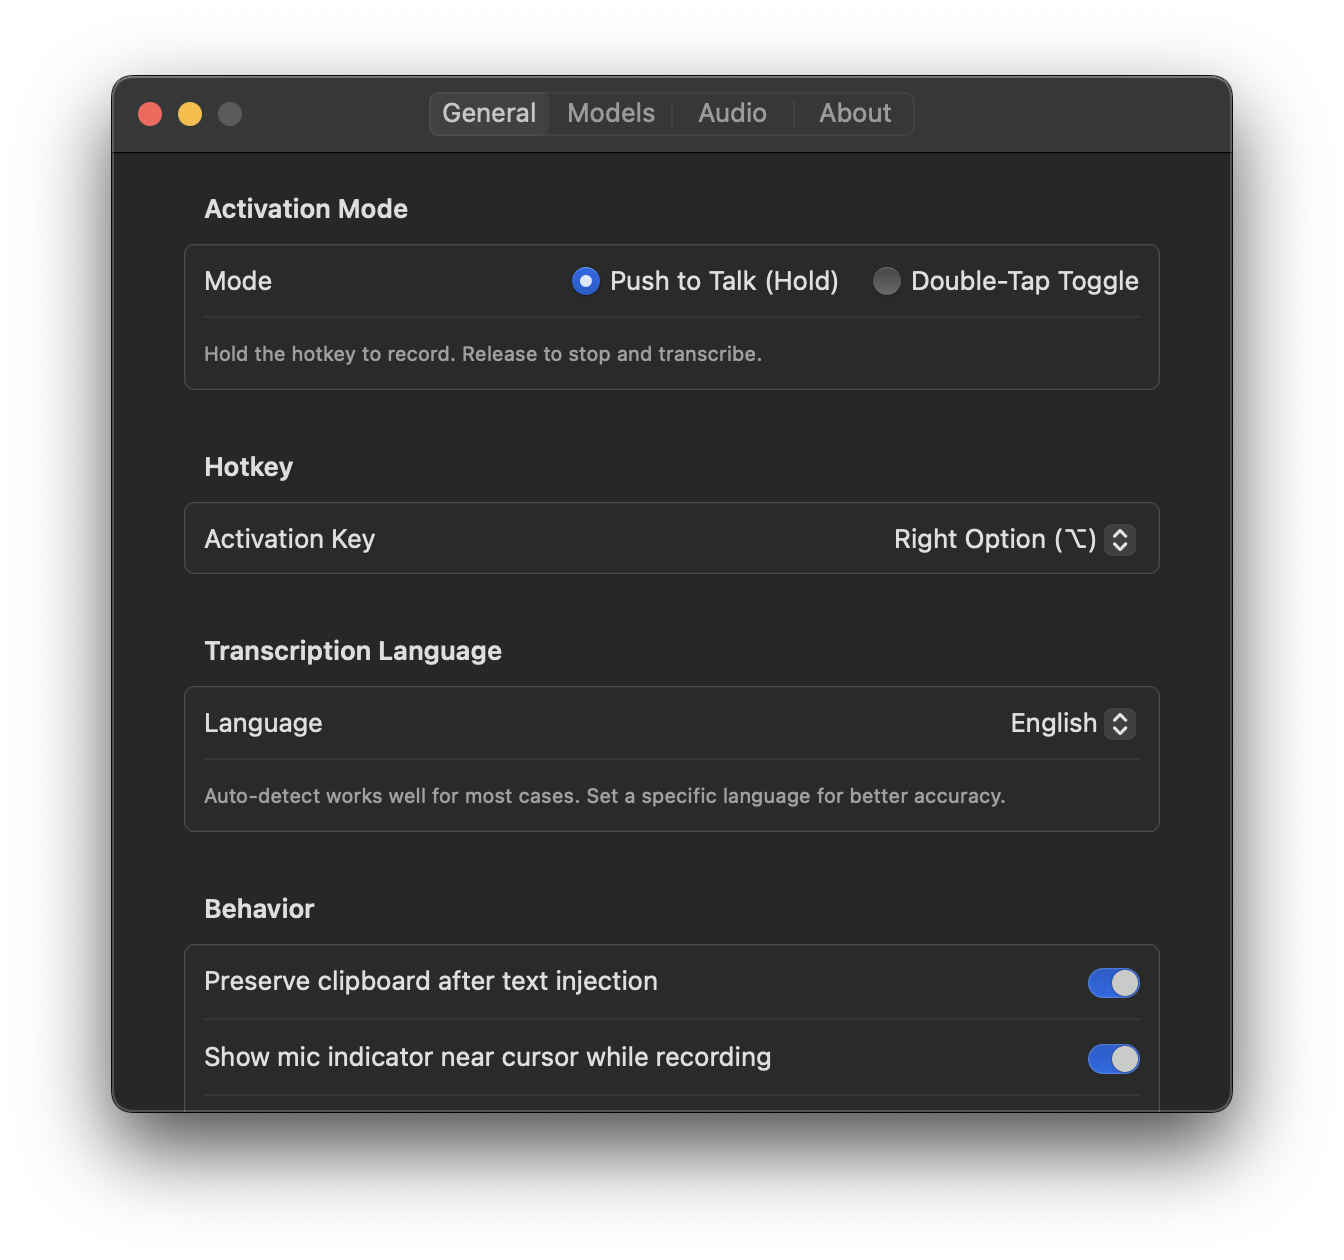
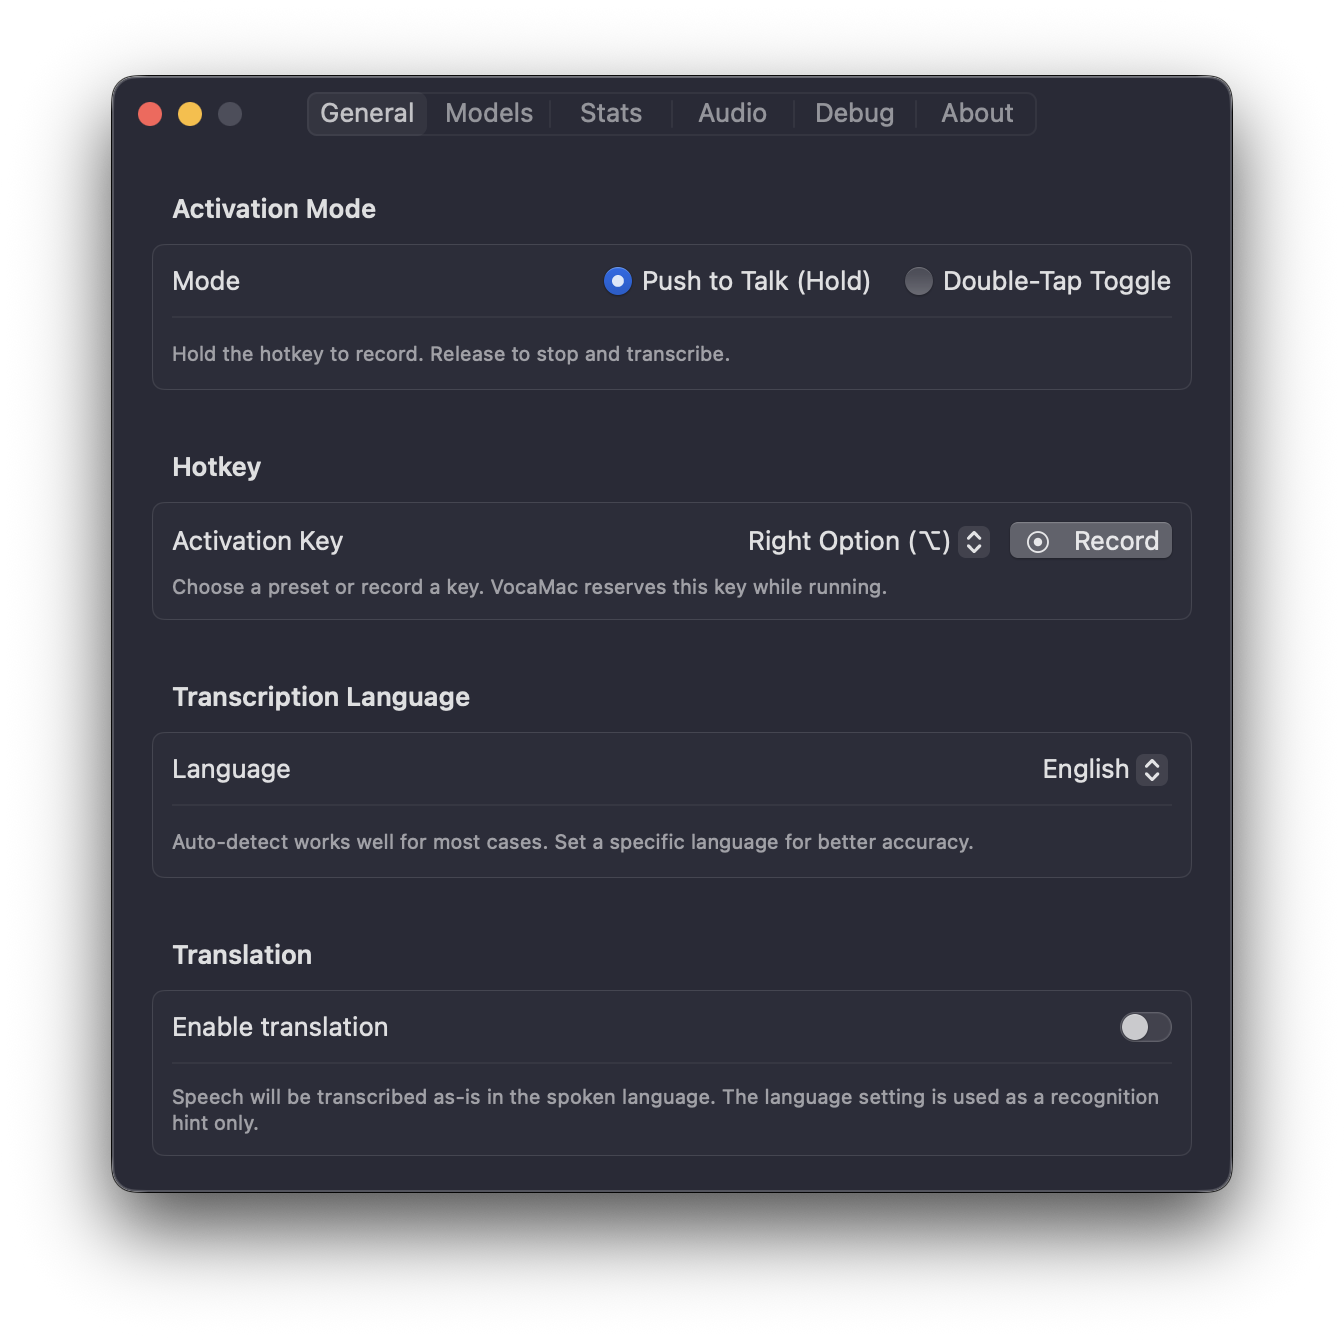
docs(web): document v0.7.0 features on the website (#172)
* docs(web): document v0.7.0 features on the website

Adds website coverage for features shipped since v0.6.2 (audit found 4 of
5 uncovered; Homebrew was already fully covered, left untouched):

- New feature pages: Custom Vocabulary (#169) and Usage Statistics
  (#148/#168/#170), each with a landing-page grid card.
- Landing JSON-LD featureList: add custom vocabulary, local usage stats,
  and selectable audio input device (#156).
- Hotkey presets + custom recording (#139): fix stale "key combination"
  copy in fully-configurable.md, document the Record/custom-key capture
  and add the Right Control preset in push-to-talk.md, and update the FAQ.
- Audio input device (#156): expand fully-configurable.md (System Default,
  non-invasive pinning, auto-fallback on disconnect, Refresh Devices).
- Screenshots gallery: add a Stats tab entry.

Two screenshots still needed from a real capture (marked with SCREENSHOT
PLACEHOLDER comments): settings-stats.png and settings-vocabulary.png.
Verified with `hugo` (build succeeds; new pages render; JSON-LD valid).

* polish(web): refine features grid, fix mobile hero overflow, SEO pass

Features grid:
- Switch from a fixed 4-col grid (which left 2 orphan cards hanging and,
  via grid-auto-rows:1fr, forced every row to the tallest card's height)
  to a centered flex-wrap layout: uniform card heights, the short last
  row centers, and 4/2/1 columns at desktop/tablet/mobile.
[…]

Pull request: docs(web): document v0.7.0 features on the website
## Summary

Brings the website up to date with the features shipping in **v0.7.0**. A multi-agent audit checked all five features shipped since v0.6.2; each finding was independently verified. Result: 4 of 5 needed website work — **Homebrew (#157/#159) was already fully covered**, so it's untouched.

Kept separate from the version-bump PR (#171) so the release PR stays clean. Branches from `main` (no version-string changes here).

## What changed

| Feature | Was | Change |
|---|---|---|
| Custom vocabulary (#169) | missing | **New page** `features/custom-vocabulary.md` + landing grid card + JSON-LD |
| Usage statistics (#148/#168/#170) | missing | **New page** `features/usage-stats.md` + landing grid card + JSON-LD + gallery entry |
| Hotkey presets + custom recording (#139) | partial / stale | Rewrote stale "key combination" copy in `fully-configurable.md`; documented the **Record**/custom-key flow + added **Right Control** preset in `push-to-talk.md`; updated the FAQ |
| Audio input device (#156) | thin | Expanded `fully-configurable.md` (System Default, non-invasive pinning, auto-fallback on disconnect, Refresh Devices) + JSON-LD line |
| Homebrew (#157/#159) | ✅ covered | No change (verified) |

## 📸 Screenshots I need from you

Two images are referenced but not yet committed. Both are marked in the source with `<!-- SCREENSHOT PLACEHOLDER ... -->` comments. Drop the PNGs into **`web/static/screenshots/`** with these exact names:

| Filename | Capture | Used by |
[…]

diff --git a/web/static/style.css b/web/static/style.css
@@ -444,14 +444,16 @@ section { padding: 100px 0; }
 
 /* ========== Features ========== */
 .features__grid {
-    display: grid;
-    grid-template-columns: repeat(4, 1fr);
-    grid-auto-rows: 1fr;
+    display: flex;
+    flex-wrap: wrap;
+    justify-content: center;
     gap: 20px;
 }
 .feature-card {
-    padding: 28px;
-    border-radius: var(--radius-lg);
+    flex: 0 1 calc(25% - 15px);
+    min-height: 224px;
+    padding: 28px 24px;
+    border-radius: var(--radius-xl);
     border: 1px solid var(--border-color);
     background: var(--card-bg);
     transition: all 0.3s ease;
@@ -476,8 +478,8 @@ a.feature-card {
 }
 a.feature-card:hover {
     transform: translateY(-4px);
-    box-shadow: var(--shadow-sm);
-    border-color: var(--accent);
+    box-shadow: var(--shadow-md);
+    border-color: var(--border-hover);
 }
 a.feature-card::after {
     content: "Learn more →";
@@ -493,8 +495,27 @@ a.feature-card::after {
 a.feature-card:hover::after {
     opacity: 1;
 }
-.feature-card__icon { font-size: 28px; }
-.feature-card p { color: var(--text-secondary); font-size: 14px; line-height: 1.6; }
+.feature-card__icon {
+    font-size: 26px;
+    line-height: 1;
+    width: 54px;
+    height: 54px;
+    display: flex;
+    align-items: center;
+    justify-content: center;
+    border-radius: 15px;
+    background: var(--bg-primary);
+    border: 1px solid var(--border-color);
+    box-shadow: 0 1px 2px rgba(0, 0, 0, 0.04);
+}
+.feature-card h3 {
+    font-size: 17px;
+    font-weight: 600;
+    letter-spacing: -0.01em;
+    line-height: 1.3;
+    margin: 0;
+}
+.feature-card p { color: var(--text-secondary); font-size: 14px; line-height: 1.5; margin: 0; }
 
 /* ========== Privacy ========== */
 .privacy { background: var(--bg-secondary); }
@@ -855,7 +876,7 @@ a.feature-card:hover::after {
 /* ========== Mobile Responsive ========== */
 @media (max-width: 1024px) {
     .container { padding: 0 32px; }
-    .features__grid { grid-template-columns: repeat(2, 1fr); }
+    .feature-card { flex-basis: calc(50% - 10px); min-height: 0; }
     .models__grid { grid-template-columns: repeat(3, 1fr); }
     .hero__container { grid-template-columns: 1fr; text-align: center; gap: 32px; }
     .hero__content { align-items: center; min-width: 0; width: 100%; }
@@ -876,7 +897,7 @@ a.feature-card:hover::after {
     .navbar__cta-icon { display: block; width: 18px; height: 18px; }
     .navbar__toggle { display: flex; }
     .steps { grid-template-columns: 1fr; gap: 32px; }
-    .features__grid { grid-template-columns: 1fr; }
+    .feature-card { flex-basis: 100%; min-height: 0; }
     .models__grid { grid-template-columns: repeat(2, 1fr); }
     .family__grid { grid-template-columns: 1fr; }
     .hero__actions { flex-direction: column; align-items: center; }
@@ -885,7 +906,7 @@ a.feature-card:hover::after {
     .hero__cta-centered .button { width: 100%; justify-content: center; padding: 14px 24px; font-size: 15px; }
     .hero { padding: 100px 0 40px; }
     .hero__container { gap: 0; }
-    .hero__visual { display: flex; margin-top: 16px; transform: scale(0.7); transform-origin: top center; margin-bottom: -80px; }
+    .hero__visual { display: flex; justify-content: center; min-width: 0; overflow: hidden; margin-top: 16px; transform: scale(0.7); transform-origin: top center; margin-bottom: -80px; }
     .comparison-table { font-size: 12px; }
     .comparison-row { grid-template-columns: 1.5fr 1fr 1fr 1fr; }
     .comparison-row div { padding: 8px 10px; }

diff --git a/web/layouts/index.html b/web/layouts/index.html
@@ -32,6 +32,9 @@
             "Launch at Login",
             "Clipboard preservation",
             "Cursor indicator overlay",
+            "Custom vocabulary for names and jargon",
+            "Local usage statistics (streaks, WPM, lifetime totals)",
+            "Selectable audio input device",
             "Guided setup wizard",
             "Open source (AGPL-3.0 license)"
         ],
@@ -180,62 +183,72 @@
                 <a href="/features/system-wide-text-injection/" class="feature-card">
                     <div class="feature-card__icon">⌨️</div>
                     <h3>System-Wide Text Injection</h3>
-                    <p>Transcribed text appears wherever your cursor is. Browsers, Slack, VS Code, spreadsheets, terminals. Everywhere.</p>
+                    <p>Transcribed text appears at your cursor, in any app.</p>
                 </a>
                 <a href="/features/push-to-talk/" class="feature-card">
                     <div class="feature-card__icon">🎯</div>
                     <h3>Push-to-Talk</h3>
-                    <p>Hold a hotkey to record. Release to transcribe. Simple, predictable, no surprises.</p>
+                    <p>Hold a hotkey to record, release to transcribe.</p>
                 </a>
                 <a href="/features/double-tap-toggle/" class="feature-card">
                     <div class="feature-card__icon">👆</div>
                     <h3>Double-Tap Toggle</h3>
-                    <p>Prefer toggle mode? Double-tap to start, double-tap to stop. Your choice.</p>
+                    <p>Double-tap to start, double-tap to stop.</p>
                 </a>
                 <a href="/features/smart-model-selection/" class="feature-card">
                     <div class="feature-card__icon">🧠</div>
                     <h3>Smart Model Selection</h3>
-                    <p>Auto-detects your Apple Silicon chip and RAM, then recommends the optimal Whisper model.</p>
+                    <p>Auto-picks the best Whisper model for your Mac.</p>
                 </a>
                 <a href="/features/apple-silicon-native/" class="feature-card">
                     <div class="feature-card__icon">⚡</div>
                     <h3>Apple Silicon Native</h3>
-                    <p>CoreML + Metal + Neural Engine acceleration via WhisperKit. Blazing fast on M1/M2/M3/M4.</p>
+                    <p>CoreML + Neural Engine speed via WhisperKit.</p>
                 </a>
                 <a href="/features/fully-configurable/" class="feature-card">
                     <div class="feature-card__icon">⚙️</div>
                     <h3>Fully Configurable</h3>
-                    <p>Choose hotkeys, models, languages, silence detection. Settings window with model management.</p>
+                    <p>Tune hotkeys, models, languages, and silence detection.</p>
                 </a>
                 <a href="/features/languages/" class="feature-card">
                     <div class="feature-card__icon">🌍</div>
                     <h3>99+ Languages</h3>
-                    <p>Auto-detect or specify. English, Spanish, French, German, Chinese, Japanese, and many more.</p>
+                    <p>Auto-detect or pick your language — 99+ supported.</p>
                 </a>
                 <a href="/features/visual-feedback/" class="feature-card">
                     <div class="feature-card__icon">📊</div>
                     <h3>Visual Feedback</h3>
-                    <p>Menu bar icon changes color. Audio level indicator shows input. Cursor indicator near your caret while recording.</p>
+                    <p>Color cues and a live audio meter while recording.</p>
                 </a>
                 <a href="/features/translation/" class="feature-card">
                     <div class="feature-card__icon">🌐</div>
                     <h3>Translation</h3>
-                    <p>Speak in one language, get text in another. Built-in speech translation powered by Whisper.</p>
+                    <p>Speak one language, get text in another.</p>
+                </a>
+                <a href="/features/custom-vocabulary/" class="feature-card">
+                    <div class="feature-card__icon">📝</div>
+                    <h3>Custom Vocabulary</h3>
+                    <p>Teach it your names, jargon, and acronyms.</p>
                 </a>
                 <a href="/features/silence-detection/" class="feature-card">
                     <div class="feature-card__icon">🤫</div>
                     <h3>Silence Detection</h3>
-                    <p>Auto-stops recording after you stop speaking. Adjustable sensitivity and duration thresholds.</p>
+                    <p>Auto-stops when you stop speaking. Fully adjustable.</p>
                 </a>
                 <a href="/features/launch-at-login/" class="feature-card">
                     <div class="feature-card__icon">🚀</div>
                     <h3>Launch at Login</h3>
-                    <p>Start VocaMac automatically when you log in. Always ready when you need it.</p>
+                    <p>Starts automatically at login. Always ready.</p>
                 </a>
                 <a href="/features/clipboard-preservation/" class="feature-card">
                     <div class="feature-card__icon">📋</div>
                     <h3>Clipboard Preservation</h3>
-                    <p>Your clipboard is saved and restored after text injection. Nothing gets overwritten.</p>
+                    <p>Saved and restored after every injection.</p>
+                </a>
+                <a href="/features/usage-stats/" class="feature-card">
+                    <div class="feature-card__icon">📈</div>
+                    <h3>Usage Statistics</h3>
+                    <p>Track words, speaking speed, and daily streaks.</p>
                 </a>
             </div>
         </div>
@@ -606,7 +619,7 @@
                 </details>
                 <details class="faq__item">
                     <summary>Can I change the hotkey?</summary>
-                    <p>Yes! Open Settings from the menu bar and choose from Right Option, Right Command, Fn, or any function key. You can also switch between push-to-talk and double-tap toggle modes.</p>
+                    <p>Yes! Open Settings from the menu bar and pick a preset (Right Option, Right Command, Right Control, Fn, or a function key), or click <strong>Record</strong> and press any key to set a custom one. You can also switch between push-to-talk and double-tap toggle modes.</p>
                 </details>
                 <details class="faq__item">
                     <summary>How does this compare to Apple's built-in dictation?</summary>

diff --git a/web/layouts/_default/screenshots.html b/web/layouts/_default/screenshots.html
@@ -51,6 +51,11 @@
                         <img src="/screenshots/settings-models.png" alt="VocaMac Settings - Models tab" loading="lazy">
                         <figcaption>Models - System info, resource usage, and model management</figcaption>
                     </figure>
+                    <!-- SCREENSHOT PLACEHOLDER: add web/static/screenshots/settings-stats.png (Stats tab, ~1344×1260) -->
+                    <figure class="screenshot-item">
+                        <img src="/screenshots/settings-stats.png" alt="VocaMac Settings - Stats tab" loading="lazy">
+                        <figcaption>Stats - Lifetime totals, speaking speed, and daily streaks</figcaption>
+                    </figure>
                     <figure class="screenshot-item">
                         <img src="/screenshots/settings-audio.png" alt="VocaMac Settings - Audio tab" loading="lazy">
                         <figcaption>Audio - Recording duration, silence detection, and input device</figcaption>

diff --git a/web/layouts/partials/head.html b/web/layouts/partials/head.html
@@ -38,7 +38,7 @@
     <meta name="theme-color" content="#FFFFFF">
 
     <!-- Open Graph -->
-    <meta property="og:type" content="website">
+    <meta property="og:type" content="{{ if .IsHome }}website{{ else }}article{{ end }}">
     <meta property="og:url" content="{{ .Permalink }}">
     <meta property="og:title" content="{{ if .IsHome }}VocaMac - 100% Local Voice-to-Text for macOS{{ else }}{{ .Title }} | VocaMac{{ end }}">
     <meta property="og:description" content="{{ with .Params.description }}{{ . }}{{ else }}{{ .Site.Params.description }}{{ end }}">

diff --git a/web/content/features/custom-vocabulary.md b/web/content/features/custom-vocabulary.md
@@ -1,0 +1,32 @@
+---
+title: "Custom Vocabulary"
+subtitle: "Teach VocaMac the names, brands, and jargon you use so they're transcribed right, every time."
+description: "Add names, technical terms, and jargon to VocaMac's custom vocabulary so Whisper spells them correctly. Processed 100% locally, like everything else in VocaMac."
+keywords: "custom vocabulary dictation, whisper glossary, proper noun transcription, technical jargon speech to text, fix misspelled names dictation macOS"
+icon: "📝"
+---
+
+## Teach VocaMac Your Words
+
+Speech models handle everyday language well but stumble on the words that matter most to you: coworkers' names, product names, acronyms, and technical jargon. "kubectl" becomes "cube control." "Grafana" becomes "graph on a." Every transcription ends with a manual fix.
+
+Custom Vocabulary targets exactly the words you use. Give VocaMac a short list of the terms it keeps getting wrong, and it hints them to the model so they come out spelled correctly from the start.
+
+<!-- SCREENSHOT PLACEHOLDER: add web/static/screenshots/settings-vocabulary.png (General tab → Custom Vocabulary section, ~1344×1260) -->
+![VocaMac Settings showing the Custom Vocabulary editor](/screenshots/settings-vocabulary.png)
+
+## How It Works
+
+Open **Settings → General → Custom Vocabulary** and type the terms you care about, one per line or comma-separated:
+
+```
+kubectl, PostgreSQL, nginx, Grafana
+```
+
+VocaMac passes these to Whisper as a transcription hint, biasing it toward your spelling. Keep the list focused: the model uses roughly the first 50–100 words, so put your most-mistranscribed terms at the top. There's no training step and no delay. Add a term, and your very next dictation already knows it.
+
+For best results, enter terms in the language you dictate and set a matching transcription language above. In Auto-detect, your vocabulary can even nudge VocaMac toward the right language.
+
+## Private by Design
+
+Your word list never leaves your Mac. Like every other part of VocaMac, custom vocabulary is applied entirely on-device — nothing is uploaded to build or store a dictionary. Your names, projects, and jargon stay yours.

diff --git a/web/content/features/usage-stats.md b/web/content/features/usage-stats.md
@@ -1,0 +1,26 @@
+---
+title: "Usage Statistics"
+subtitle: "See how much you dictate, how fast you speak, and how consistent you've been. All stored locally."
+description: "VocaMac's Stats tab tracks words transcribed, speaking speed, daily streaks, and lifetime totals — stored locally on your Mac and never uploaded."
+keywords: "dictation statistics, words per minute tracker, voice typing stats, speaking speed macOS, local usage stats, dictation streak"
+icon: "📈"
+---
+
+## See How Much You Dictate
+
+Every transcription adds up. The **Stats** tab in Settings turns that into a picture of how you actually use your voice: total words transcribed, number of transcriptions, and total time spoken across the lifetime of the app.
+
+<!-- SCREENSHOT PLACEHOLDER: add web/static/screenshots/settings-stats.png (Stats tab, ~1344×1260, ideally with real usage so it isn't all zeros) -->
+![VocaMac Settings showing the Stats tab](/screenshots/settings-stats.png)
+
+## Speed, Streaks, and Recent Activity
+
+- **Speaking speed** — your average words per minute, so you can see how fast you dictate.
+- **Daily streak** — consecutive days you've used VocaMac, alongside your best streak so far.
+- **Recent activity** — a day-by-day breakdown of words dictated over the last week.
+
+It's a light, motivating way to keep a habit going, without turning dictation into a spreadsheet.
+
+## Private by Design
+
+Your stats are yours alone. They're saved locally on your Mac and never uploaded, synced, or shared — nothing about how much you dictate ever leaves your machine. Want a clean slate? A single button in the Stats tab resets everything.

diff --git a/web/content/features/fully-configurable.md b/web/content/features/fully-configurable.md
@@ -16,9 +16,9 @@ Every major aspect of VocaMac can be customized. Hotkeys, audio behavior, transc
 
 ## Hotkey Configuration
 
-Your hotkey is how you activate VocaMac. The app respects your preference for how you work and lets you choose exactly which key combination suits your workflow best.
+Your hotkey is how you activate VocaMac. The app respects how you work and lets you pick the single activation key that suits you best.
 
-Maybe you prefer Control-Space. Perhaps Command-Shift-L feels more natural. You might want something completely different. The settings window presents a simple, elegant hotkey selector. Click, press the keys you want to use, and you're done.
+Start from a preset — Right Option, Left Option, Right Command, Right Shift, Right Control, Fn, or a function key (F5–F12). Prefer something else? Click **Record**, press any key, and VocaMac captures it (press Escape to cancel). Your choice shows up as a "Custom" key, and while VocaMac is running that key is reserved for activation.
 
 The hotkey works from anywhere on your Mac. Launch VocaMac from Mail, from Slack, from a web browser, or from any application. As long as VocaMac is running, your hotkey is active and ready.
 
@@ -40,7 +40,7 @@ Set the silence detection threshold to match your environment. In a quiet office
 
 Configure the maximum recording duration. If you prefer shorter bursts of dictation, set a reasonable limit. The app will automatically stop recording when you reach it, preventing accidental marathon recording sessions.
 
-Choose your audio input device. If you use an external microphone, a USB headset, or an AirPods Pro, select it directly from the settings. VocaMac remembers your choice and uses it every time.
+Choose your audio input device. Leave it on **System Default** to follow macOS, or pin VocaMac to a specific microphone — an external mic, a USB headset, or AirPods Pro. Pinning is non-invasive: VocaMac uses your chosen device without changing the system-wide default for other apps. If that device disconnects, VocaMac falls back to System Default automatically and resumes using it when the device reconnects. Plugged something in? Hit **Refresh Devices** to update the list.
 
 ## Language and Transcription Settings
 

diff --git a/web/content/features/_index.md b/web/content/features/_index.md
@@ -1,4 +1,5 @@
 ---
 title: "Features"
-description: "Everything VocaMac can do for you."
+description: "Explore every VocaMac feature — push-to-talk dictation, 99+ languages, custom vocabulary, usage stats, and more. 100% local voice-to-text for macOS."
+keywords: "vocamac features, voice to text features macOS, dictation app features, custom vocabulary, usage statistics, hotkey dictation"
 ---

diff --git a/web/content/features/push-to-talk.md b/web/content/features/push-to-talk.md
@@ -38,8 +38,11 @@ VocaMac supports a wide range of hotkeys for Push-to-Talk activation:
 - **Left Option (⌥)** - if you prefer the left side
 - **Right Command (⌘)** - for Command-key enthusiasts
 - **Right Shift (⇧)** - another good ergonomic choice
+- **Right Control (⌃)** - a comfortable reach for many keyboards
 - **Function keys (F5-F12)** - if you prefer dedicated keys
 - **Fn key** - the function key itself
+
+Want a key that isn't in the list? Click **Record** next to the preset picker and press any key — VocaMac captures it and shows it as your "Custom" key (press Escape to cancel). While VocaMac is running, that key is reserved for activation.
 
 You can change your hotkey anytime in **Settings → General → Activation Key**.
 

diff --git a/web/content/_index.md b/web/content/_index.md
@@ -1,5 +1,5 @@
 ---
 title: "VocaMac - 100% Local Voice-to-Text for macOS"
-description: "100% offline, open-source voice-to-text for macOS. Powered by WhisperKit + CoreML."
+description: "Free, 100% offline voice-to-text for macOS. Hold a hotkey, speak, and text appears at your cursor — private, fast, and powered by WhisperKit on Apple Silicon."
 keywords: "voice to text macOS, offline dictation, speech to text mac, whisperkit, coreml speech recognition, push to talk mac, open source dictation, privacy voice typing, apple silicon voice recognition"
 ---